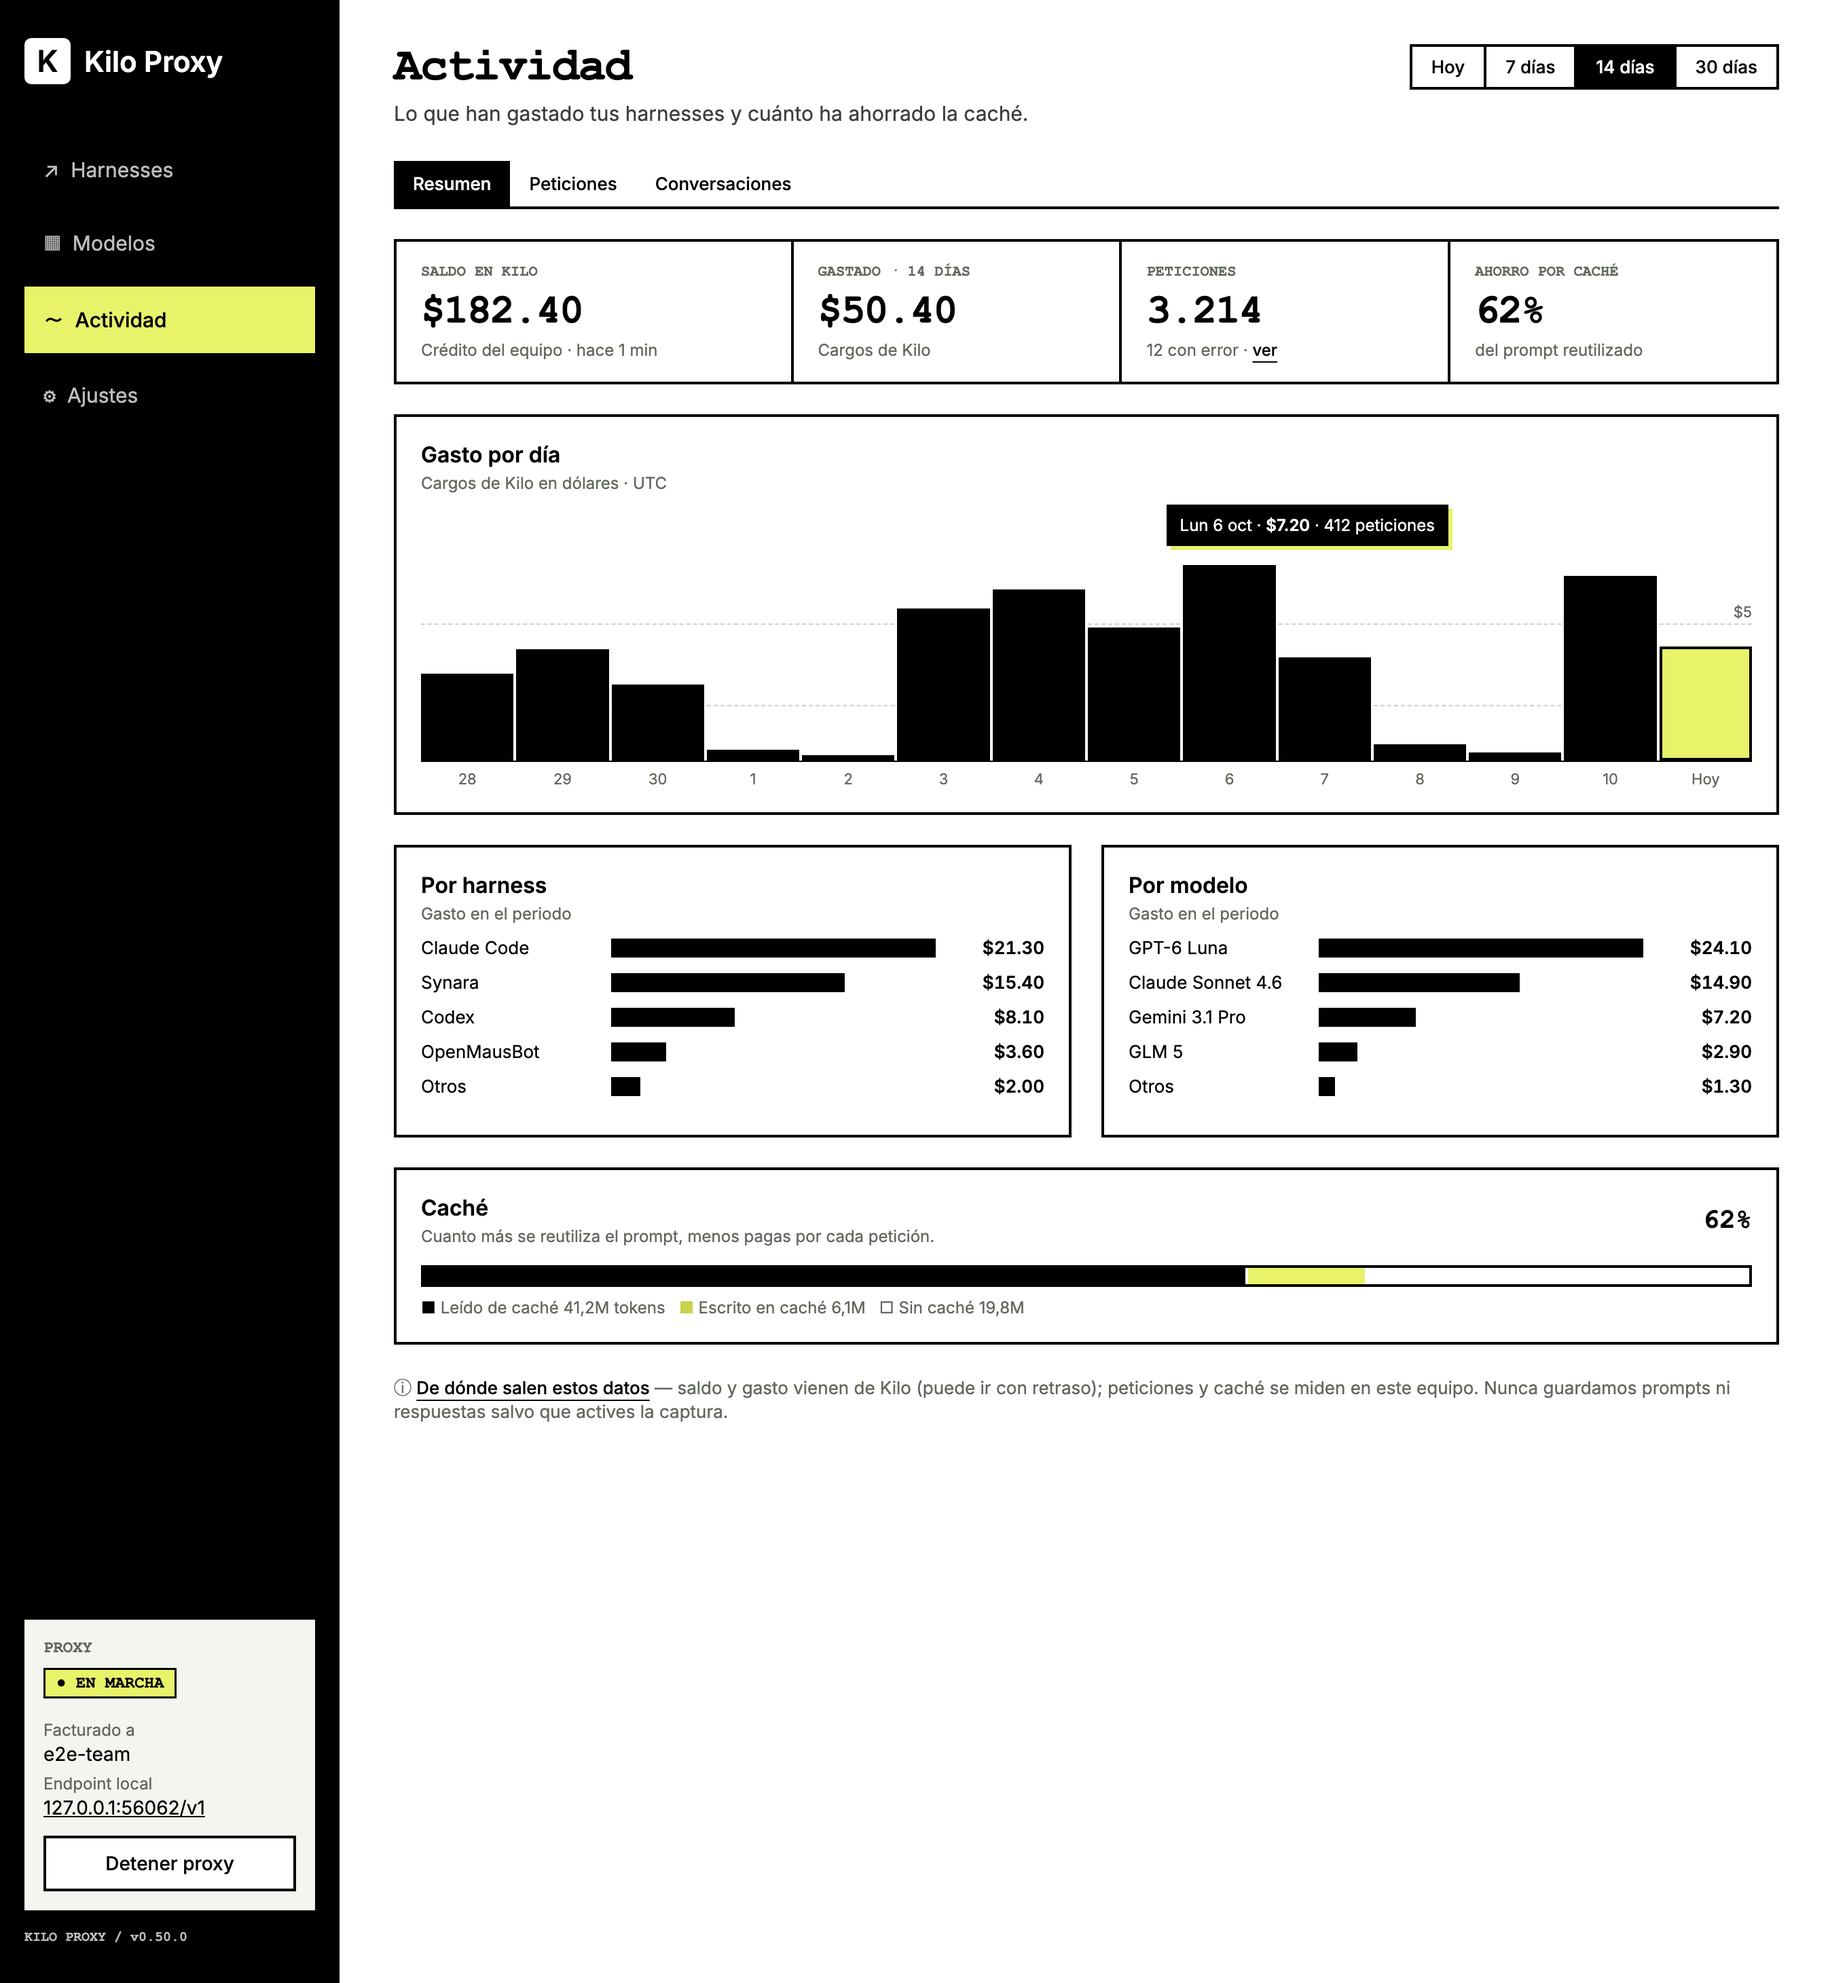
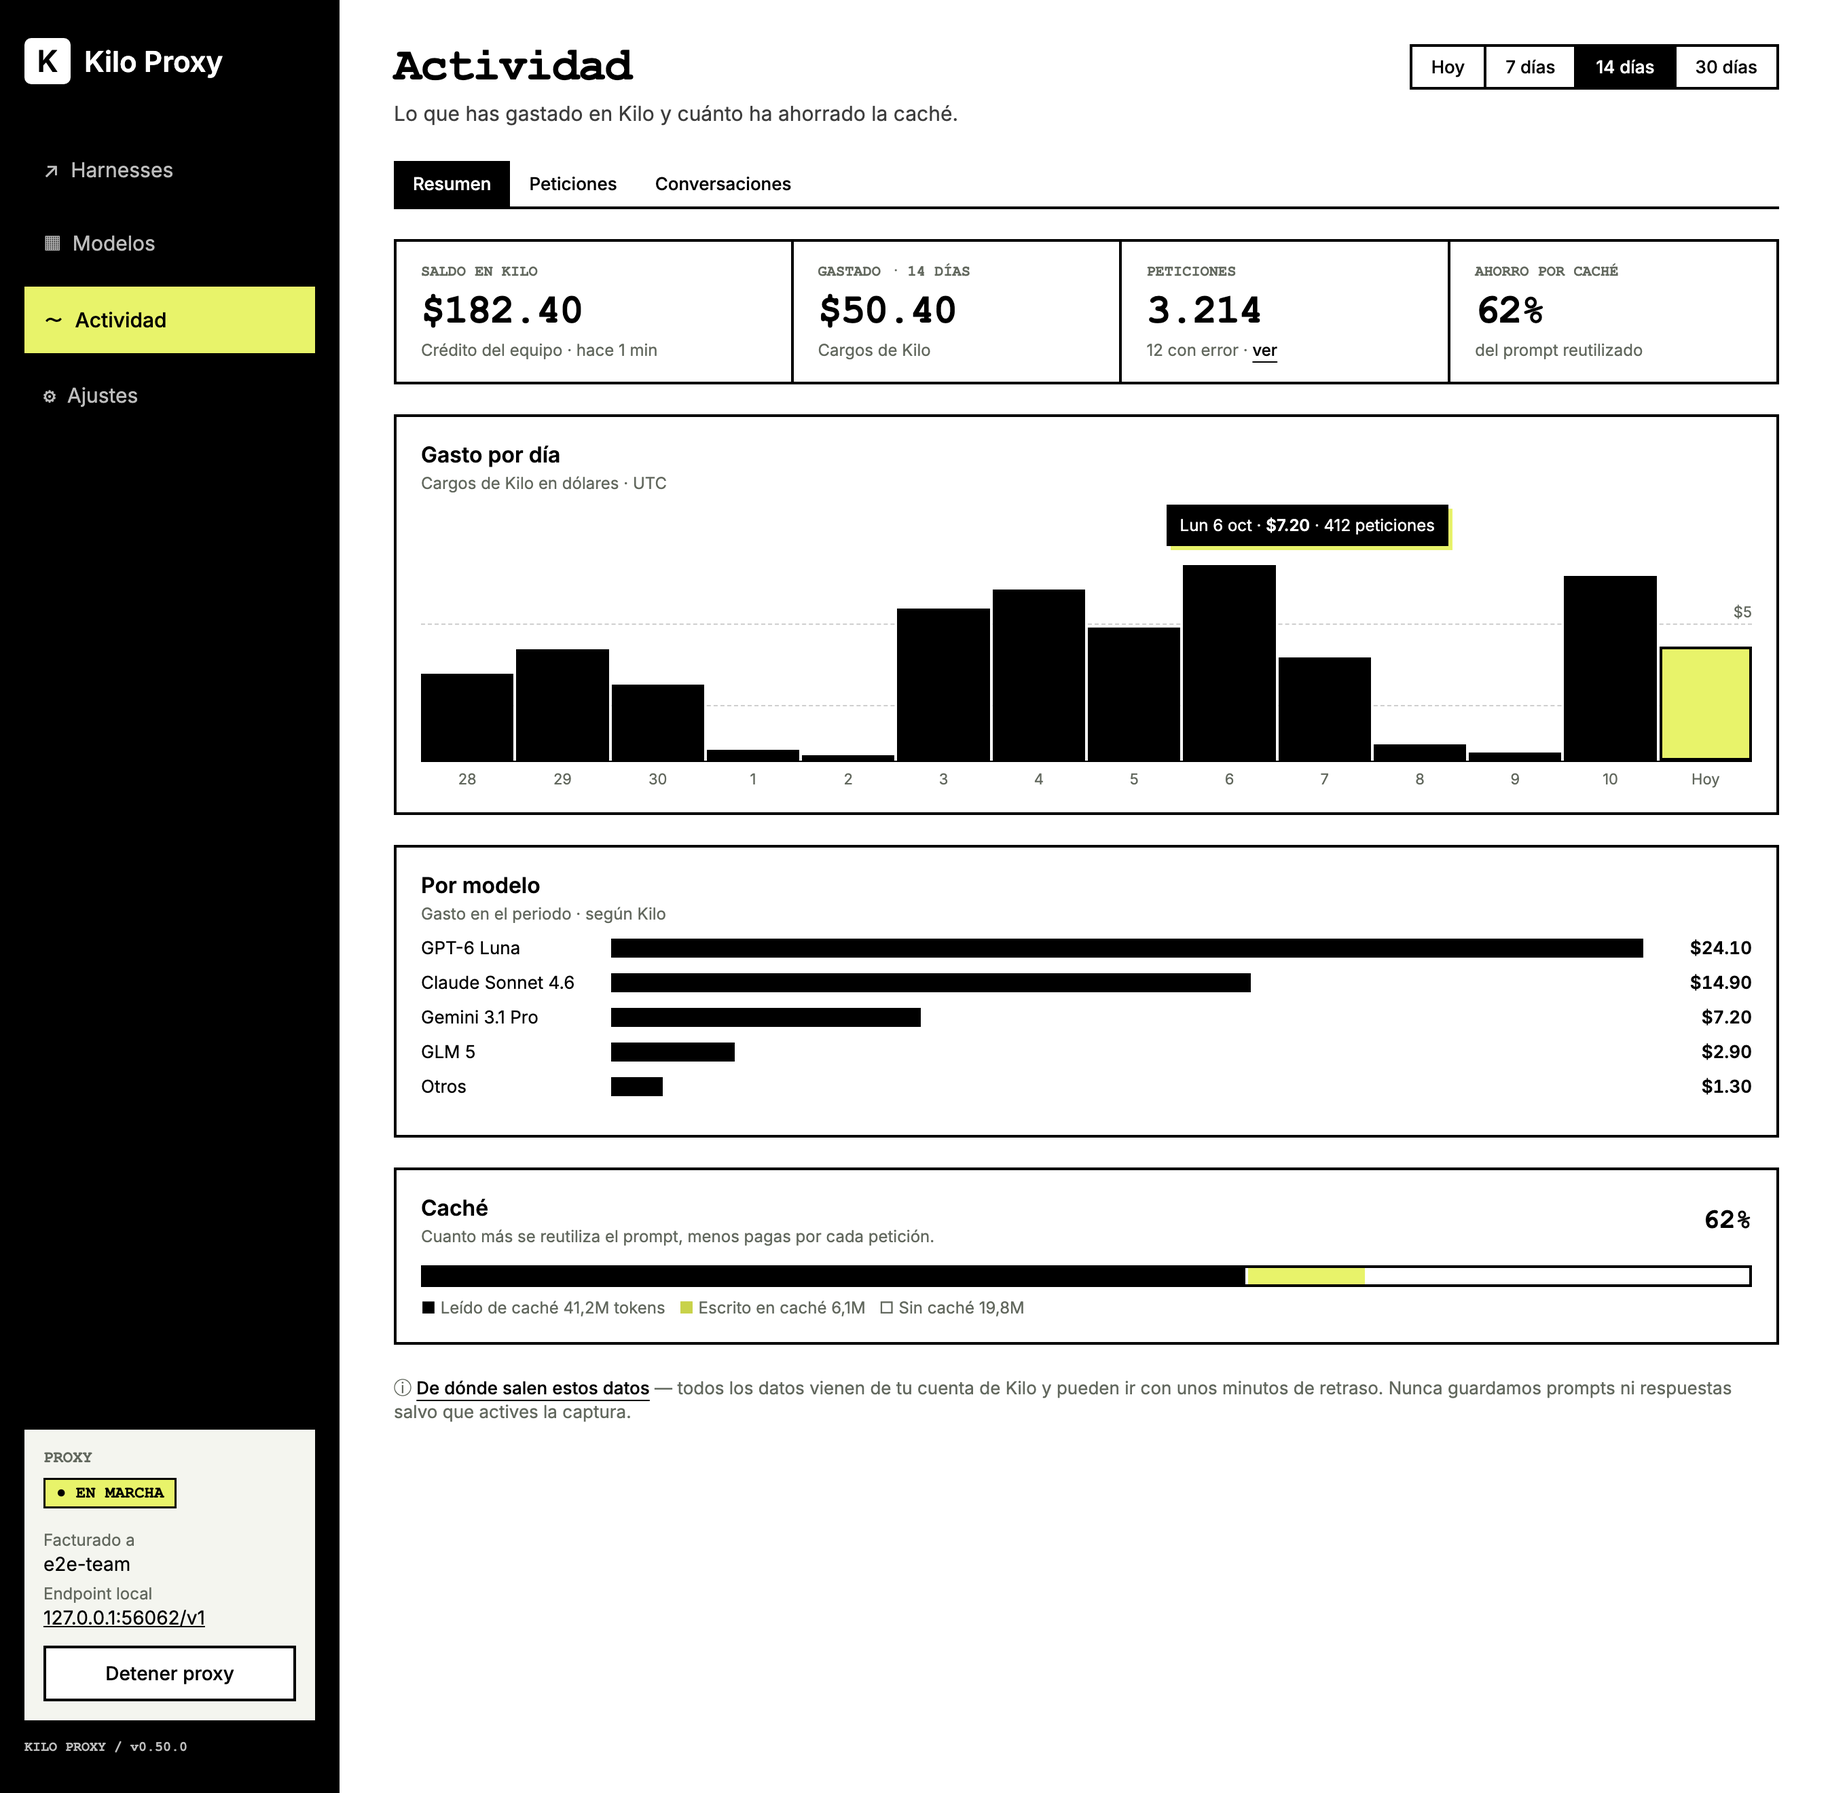
docs: activity mockup without per-harness breakdown

diff --git a/docs/redesign/proposal-activity/b1-activity.html b/docs/redesign/proposal-activity/b1-activity.html
@@ -1,20 +1,14 @@
 <!doctype html><meta charset=utf-8><link rel=stylesheet href=style.css><body><aside><div class="brand"><div class="logo">K</div>Kilo Proxy</div><nav><a>↗&nbsp; Harnesses</a><a>▦&nbsp; Modelos</a><a class="on">〜&nbsp; Actividad</a><a>⚙&nbsp; Ajustes</a></nav><div class="grow"></div><div class="proxy"><div class="mono muted">PROXY</div><div class="st mono" style="background:#e8f36a">● EN MARCHA</div><div class="sub">Facturado a</div><div style="font-size:14px;margin-top:2px">e2e-team</div><div class="sub">Endpoint local</div><div style="font-size:14px;margin-top:2px;text-decoration:underline">127.0.0.1:56062/v1</div><div class="btn" style="background:#fff;color:#000;border:2px solid #000">Detener proxy</div></div><div class="ver mono">KILO PROXY / v0.50.0</div></aside><main>
-<div class="head" style="margin-bottom:6px"><h1>Actividad</h1><div class="period"><span>Hoy</span><span>7 días</span><span class="on">14 días</span><span>30 días</span></div></div><p class="lead">Lo que han gastado tus harnesses y cuánto ha ahorrado la caché.</p><div class="tabs" style="margin:0 0 22px"><span class="on">Resumen</span><span class="">Peticiones</span><span class="">Conversaciones</span></div>
+<div class="head" style="margin-bottom:6px"><h1>Actividad</h1><div class="period"><span>Hoy</span><span>7 días</span><span class="on">14 días</span><span>30 días</span></div></div><p class="lead">Lo que has gastado en Kilo y cuánto ha ahorrado la caché.</p><div class="tabs" style="margin:0 0 22px"><span class="on">Resumen</span><span class="">Peticiones</span><span class="">Conversaciones</span></div>
 <div class="hero"><div><div class="lbl mono" style="font-size:11px;color:#62685e">SALDO EN KILO</div><div class="big">$182.40</div><div class="cap">Crédito del equipo · hace 1 min</div></div><div><div class="lbl mono" style="font-size:11px;color:#62685e">GASTADO · 14 DÍAS</div><div class="big">$50.40</div><div class="cap">Cargos de Kilo</div></div><div><div class="lbl mono" style="font-size:11px;color:#62685e">PETICIONES</div><div class="big">3.214</div><div class="cap">12 con error · <span class="link" style="color:#000">ver</span></div></div><div><div class="lbl mono" style="font-size:11px;color:#62685e">AHORRO POR CACHÉ</div><div class="big">62%</div><div class="cap">del prompt reutilizado</div></div></div>
 <div class="panel"><div class="head" style="margin:0"><div><h3>Gasto por día</h3><div class="idl">Cargos de Kilo en dólares · UTC</div></div></div><div class="chart"><div class="grid" style="bottom:100px"><span>$5</span></div><div class="grid" style="bottom:40px"><span>$2</span></div><div class="bar" style="height:64px"></div><div class="bar" style="height:82px"></div><div class="bar" style="height:56px"></div><div class="bar" style="height:8px"></div><div class="bar" style="height:4px"></div><div class="bar" style="height:112px"></div><div class="bar" style="height:126px"></div><div class="bar" style="height:98px"></div><div class="bar" style="height:144px"></div><div class="bar" style="height:76px"></div><div class="bar" style="height:12px"></div><div class="bar" style="height:6px"></div><div class="bar" style="height:136px"></div><div class="bar today" style="height:84px"></div><div class="tip" style="left:56%;bottom:158px">Lun 6 oct · <b>$7.20</b> · 412 peticiones</div></div><div class="xl"><span>28</span><span>29</span><span>30</span><span>1</span><span>2</span><span>3</span><span>4</span><span>5</span><span>6</span><span>7</span><span>8</span><span>9</span><span>10</span><span>Hoy</span></div></div>
-<div class="two"><div class="panel"><h3>Por harness</h3><div class="idl">Gasto en el periodo</div>
-<div class="hb"><div class="n">Claude Code</div><div class="track"><div class="fill" style="width:100%"></div></div><div class="v">$21.30</div></div>
-<div class="hb"><div class="n">Synara</div><div class="track"><div class="fill" style="width:72%"></div></div><div class="v">$15.40</div></div>
-<div class="hb"><div class="n">Codex</div><div class="track"><div class="fill" style="width:38%"></div></div><div class="v">$8.10</div></div>
-<div class="hb"><div class="n">OpenMausBot</div><div class="track"><div class="fill" style="width:17%"></div></div><div class="v">$3.60</div></div>
-<div class="hb"><div class="n">Otros</div><div class="track"><div class="fill" style="width:9%"></div></div><div class="v">$2.00</div></div>
-</div><div class="panel"><h3>Por modelo</h3><div class="idl">Gasto en el periodo</div>
+<div class="panel"><h3>Por modelo</h3><div class="idl">Gasto en el periodo · según Kilo</div>
 <div class="hb"><div class="n">GPT-6 Luna</div><div class="track"><div class="fill" style="width:100%"></div></div><div class="v">$24.10</div></div>
 <div class="hb"><div class="n">Claude Sonnet 4.6</div><div class="track"><div class="fill" style="width:62%"></div></div><div class="v">$14.90</div></div>
 <div class="hb"><div class="n">Gemini 3.1 Pro</div><div class="track"><div class="fill" style="width:30%"></div></div><div class="v">$7.20</div></div>
 <div class="hb"><div class="n">GLM 5</div><div class="track"><div class="fill" style="width:12%"></div></div><div class="v">$2.90</div></div>
-<div class="hb"><div class="n">Otros</div><div class="track"><div class="fill" style="width:5%"></div></div><div class="v">$1.30</div></div>
+<div class="hb"><div class="n">Otros</div><div class="track"><div class="fill" style="width:5%"></div></div><div class="v">$1.30</div>
 </div></div>
 <div class="panel"><div class="head" style="margin:0"><div><h3>Caché</h3><div class="idl">Cuanto más se reutiliza el prompt, menos pagas por cada petición.</div></div><b class="mono" style="font-size:20px">62%</b></div><div class="meter"><div style="width:62%;background:#000"></div><div style="width:9%;background:#e8f36a;border-left:2px solid #fff"></div></div><div class="idl"><b style="color:#000">■</b> Leído de caché 41,2M tokens &nbsp; <b style="color:#c8d24a">■</b> Escrito en caché 6,1M &nbsp; □ Sin caché 19,8M</div></div>
-<p class="muted" style="font-size:13px">ⓘ <span class="link" style="color:#000">De dónde salen estos datos</span> — saldo y gasto vienen de Kilo (puede ir con retraso); peticiones y caché se miden en este equipo. Nunca guardamos prompts ni respuestas salvo que actives la captura.</p>
+<p class="muted" style="font-size:13px">ⓘ <span class="link" style="color:#000">De dónde salen estos datos</span> — todos los datos vienen de tu cuenta de Kilo y pueden ir con unos minutos de retraso. Nunca guardamos prompts ni respuestas salvo que actives la captura.</p>
 </main>
